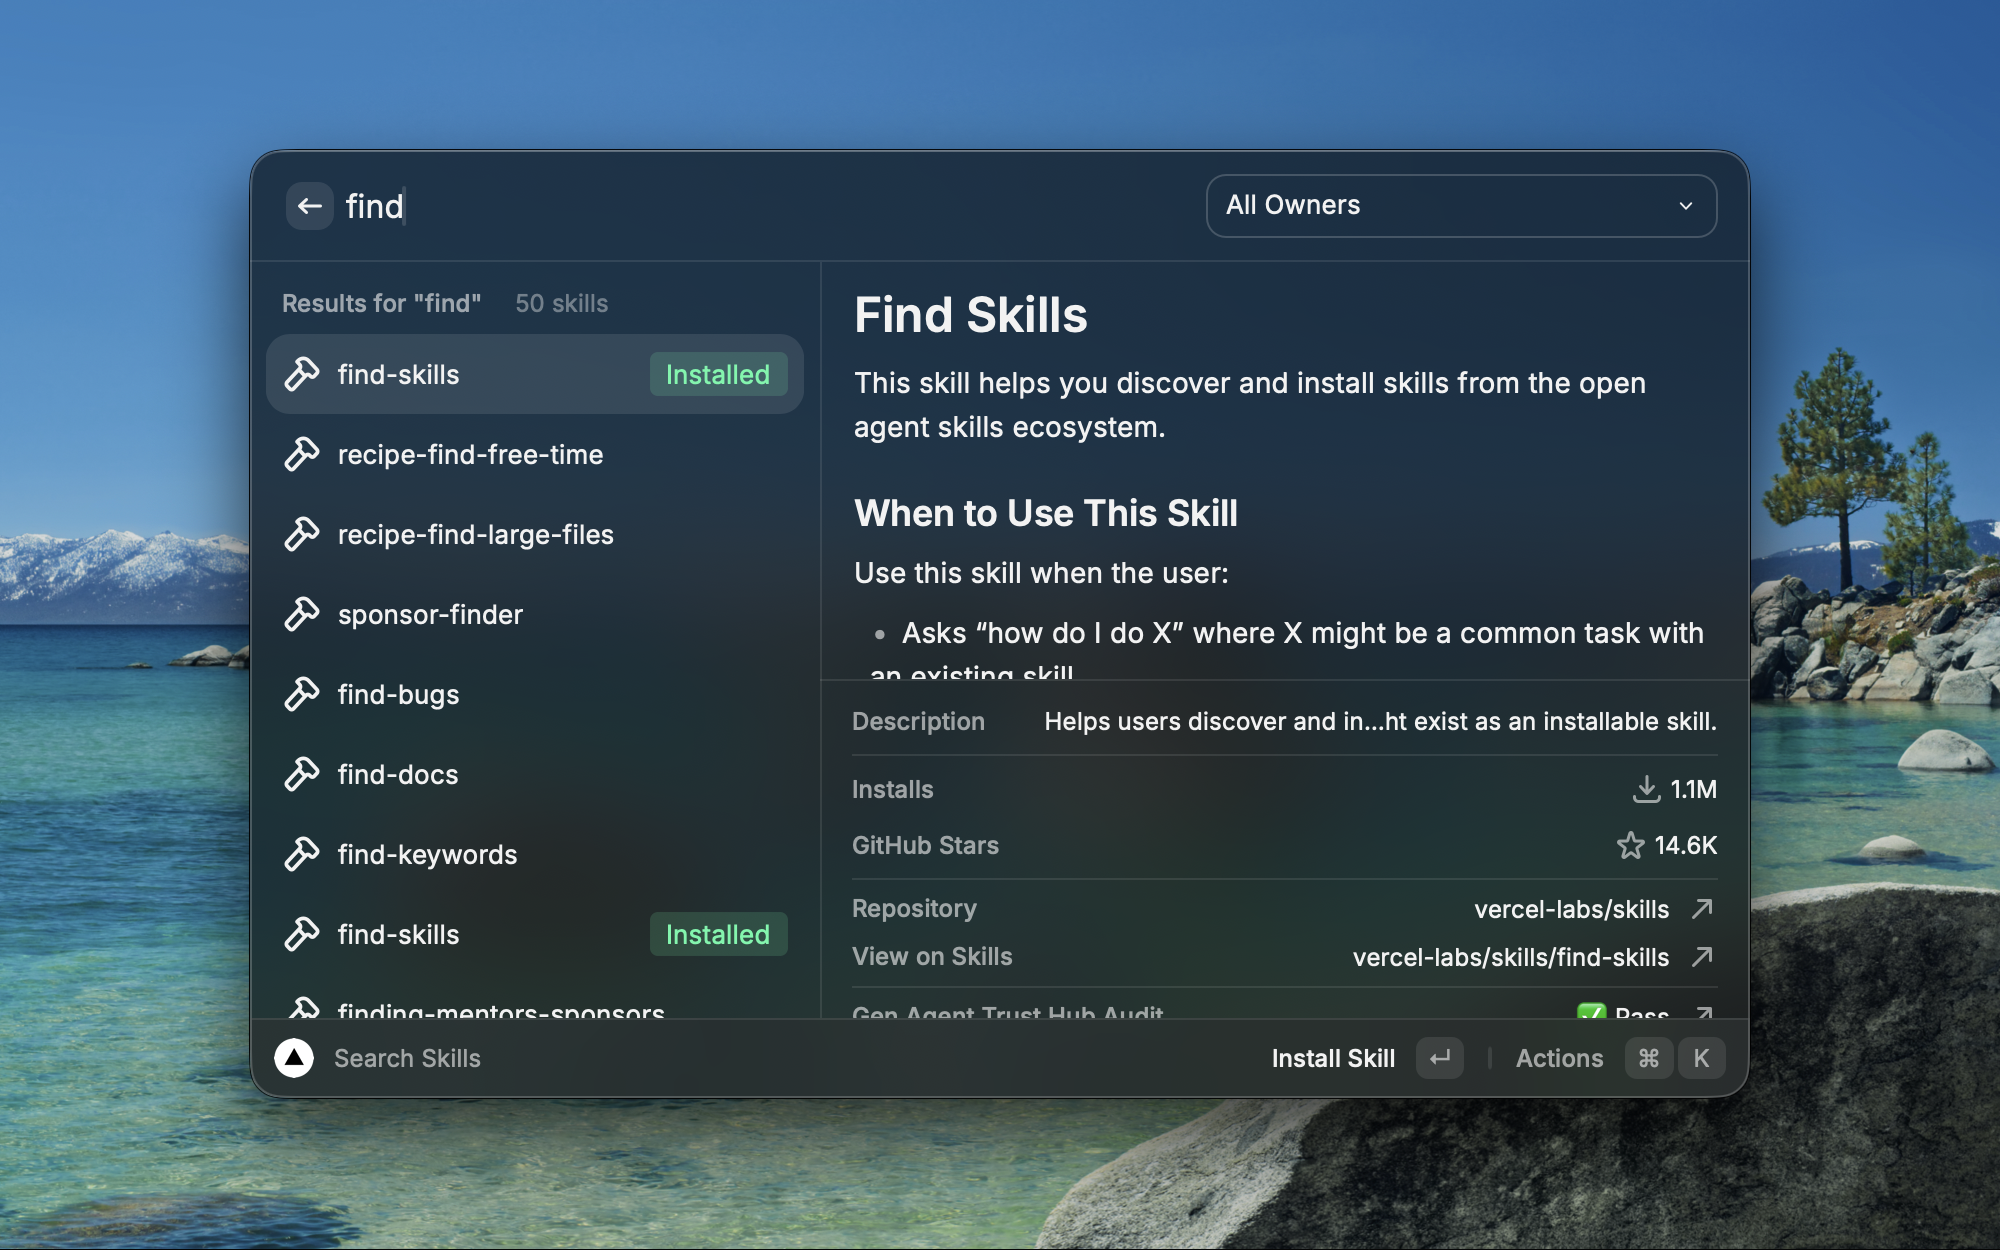
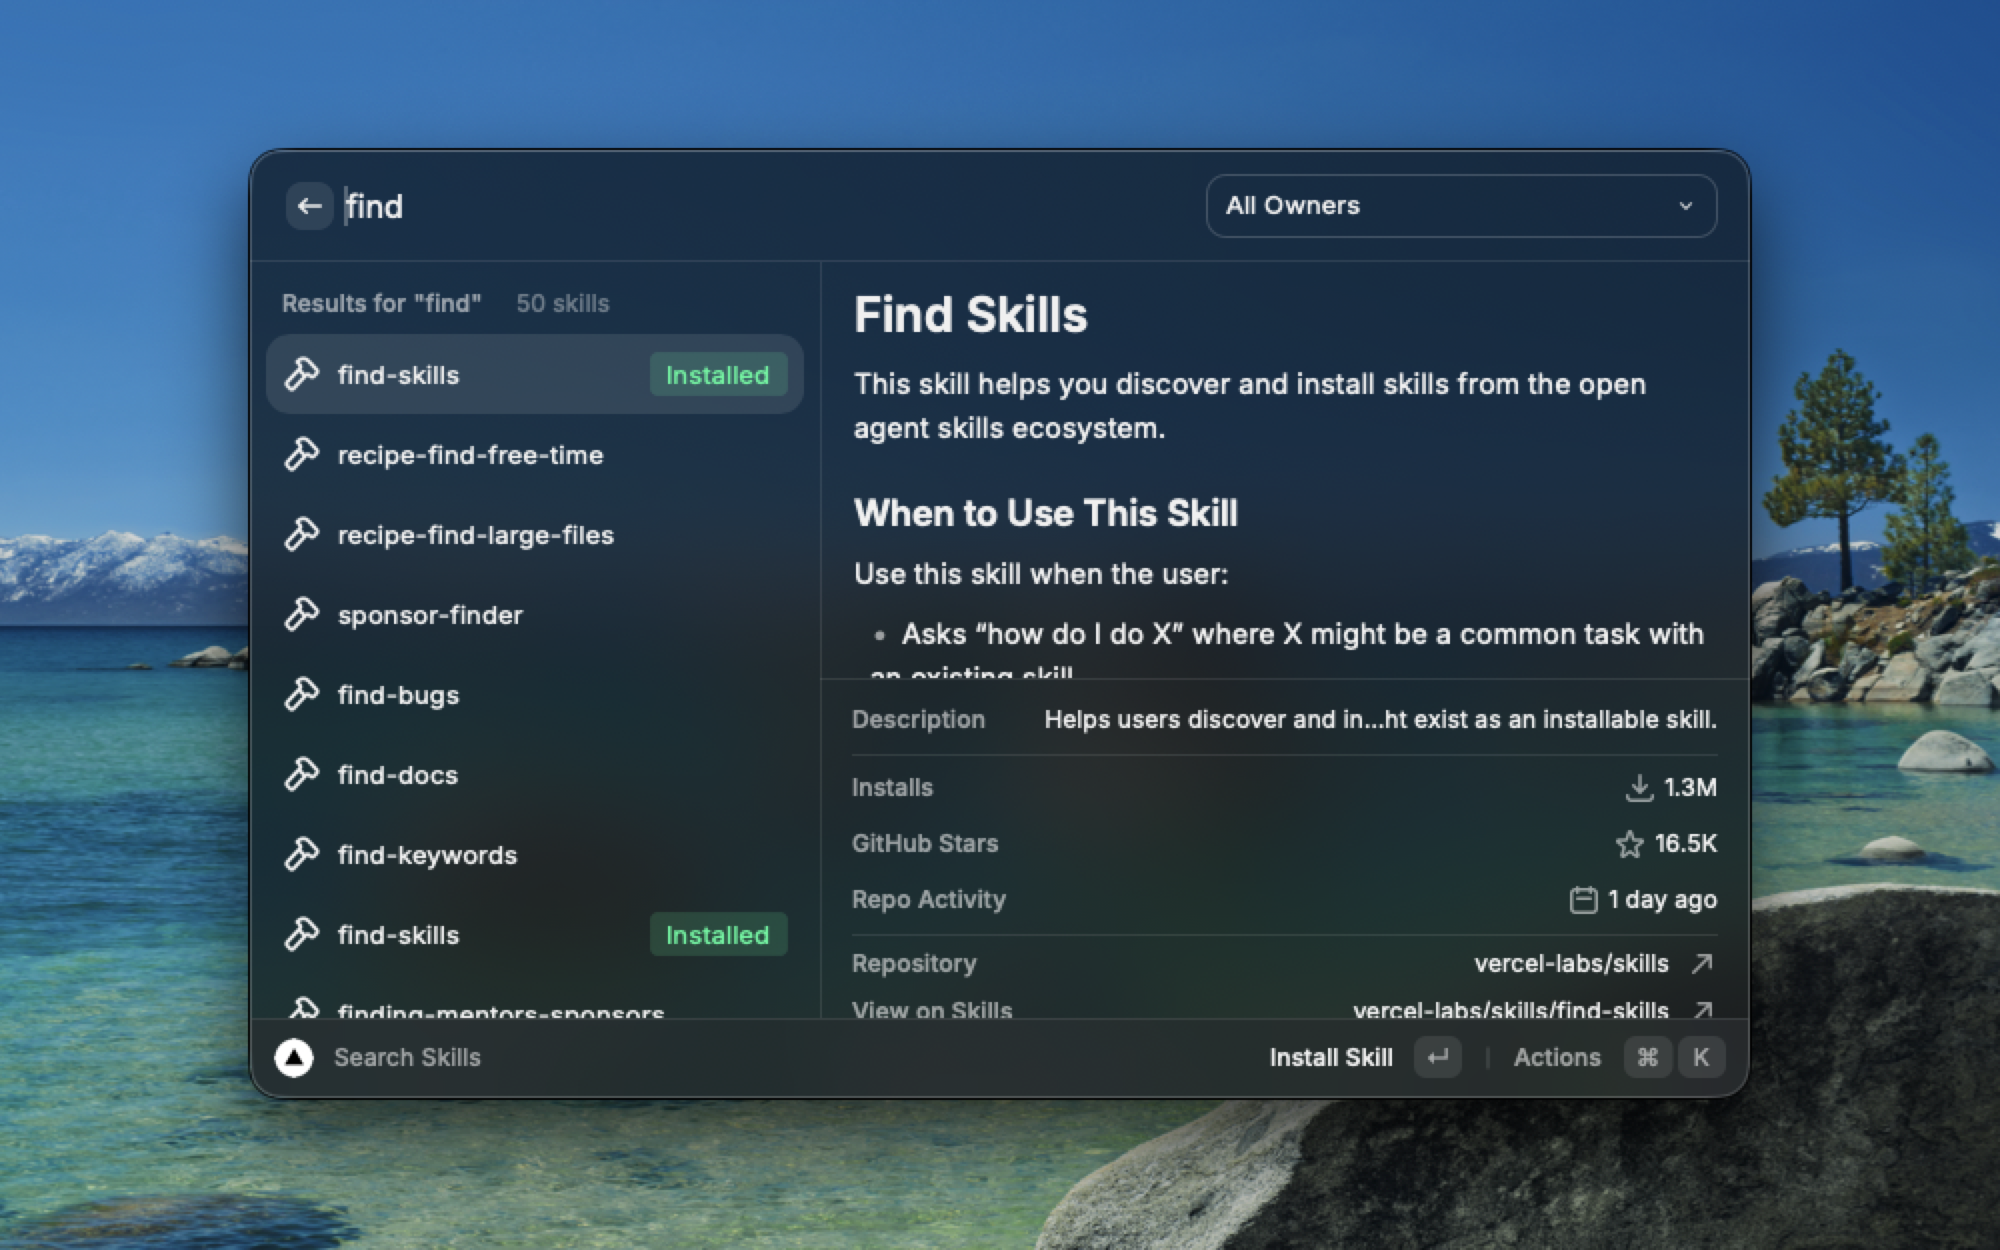
Show repository activity date in skill detail panel (#26936)
* Show repository activity date in skill detail panel

Display the repository's last push date as a relative time
(e.g. "3 days ago") in the skill detail metadata, helping users
assess how actively maintained a skill's repository is.

* Fix month/year boundary in formatRelativeDate

Derive years from months (months / 12) instead of days (days / 365)
to avoid returning "12 months ago" for dates 360-364 days in the past.

* Update screenshot to show Repo Activity in detail panel

* Update metadata screenshots with both Installed badge and Repo Activity

* Fix CHANGELOG entry position and resize metadata screenshots

- Move PR entry to the top of CHANGELOG
- Resize screenshots to 2000x1250px

* Update CHANGELOG.md and optimise images

---------

diff --git a/extensions/skills/src/shared.ts b/extensions/skills/src/shared.ts
@@ -145,6 +145,24 @@ export function formatInstalls(count: number): string {
   return count.toString();
 }
 
+export function formatRelativeDate(isoDate: string): string {
+  const diff = Date.now() - new Date(isoDate).getTime();
+  if (Number.isNaN(diff) || diff < 0) return "Unknown";
+  const seconds = Math.floor(diff / 1000);
+  const minutes = Math.floor(seconds / 60);
+  const hours = Math.floor(minutes / 60);
+  const days = Math.floor(hours / 24);
+  const months = Math.floor(days / 30);
+  const years = Math.floor(months / 12);
+
+  if (years > 0) return `${years} year${years > 1 ? "s" : ""} ago`;
+  if (months > 0) return `${months} month${months > 1 ? "s" : ""} ago`;
+  if (days > 0) return `${days} day${days > 1 ? "s" : ""} ago`;
+  if (hours > 0) return `${hours} hour${hours > 1 ? "s" : ""} ago`;
+  if (minutes > 0) return `${minutes} minute${minutes > 1 ? "s" : ""} ago`;
+  return "just now";
+}
+
 export function stripGitSuffix(url: string): string {
   return url.endsWith(".git") ? url.slice(0, -4) : url;
 }

diff --git a/extensions/skills/src/components/SkillListItem.tsx b/extensions/skills/src/components/SkillListItem.tsx
@@ -6,6 +6,7 @@ import {
   AUDIT_PROVIDER_LABELS,
   buildInstallCommand,
   formatInstalls,
+  formatRelativeDate,
   normalizeAllowedTools,
   Skill,
   SkillAudit,
@@ -97,6 +98,13 @@ ${installCommand}
                 icon={Icon.Star}
               />
             )
+          )}
+          {!stats?.rateLimited && stats?.pushedAt && (
+            <List.Item.Detail.Metadata.Label
+              title="Repo Activity"
+              text={formatRelativeDate(stats.pushedAt)}
+              icon={Icon.Calendar}
+            />
           )}
           {frontmatter.license && (
             <List.Item.Detail.Metadata.Label title="License" text={frontmatter.license} icon={Icon.Document} />

diff --git a/extensions/skills/src/hooks/useRepoStats.ts b/extensions/skills/src/hooks/useRepoStats.ts
@@ -5,6 +5,7 @@ import { type Skill } from "../shared";
 
 export type RepoStats = {
   stars?: number;
+  pushedAt?: string;
   rateLimited?: boolean;
 };
 
@@ -21,8 +22,8 @@ async function fetchRepoStats(source: string): Promise<RepoStats | undefined> {
       return { rateLimited: true };
     }
     if (!response.ok) return undefined;
-    const data = (await response.json()) as { stargazers_count: number };
-    return { stars: data.stargazers_count };
+    const data = (await response.json()) as { stargazers_count: number; pushed_at?: string };
+    return { stars: data.stargazers_count, pushedAt: data.pushed_at };
   } catch {
     return undefined;
   }

diff --git a/extensions/skills/CHANGELOG.md b/extensions/skills/CHANGELOG.md
@@ -1,9 +1,13 @@
 # Skills Changelog
 
+## [Show Last Updated Date in Search Results] - 2026-04-30
+
+- Show the repository's last updated date in the skill detail panel, displayed as a relative time (e.g. "3 days ago")
+
 ## [Add Repository Shortcut] - 2026-04-30
 
 - Add a keyboard shortcut to open a skill's repository from the action panel
-- 
+
 ## [Fix Windows bunx Fallback] - 2026-04-30
 
 - Fix the Skills CLI throwing `'"bunx"' is not recognized as an internal or external command` on Windows when Bun is not installed; the extension now correctly falls back to `npx` as intended
